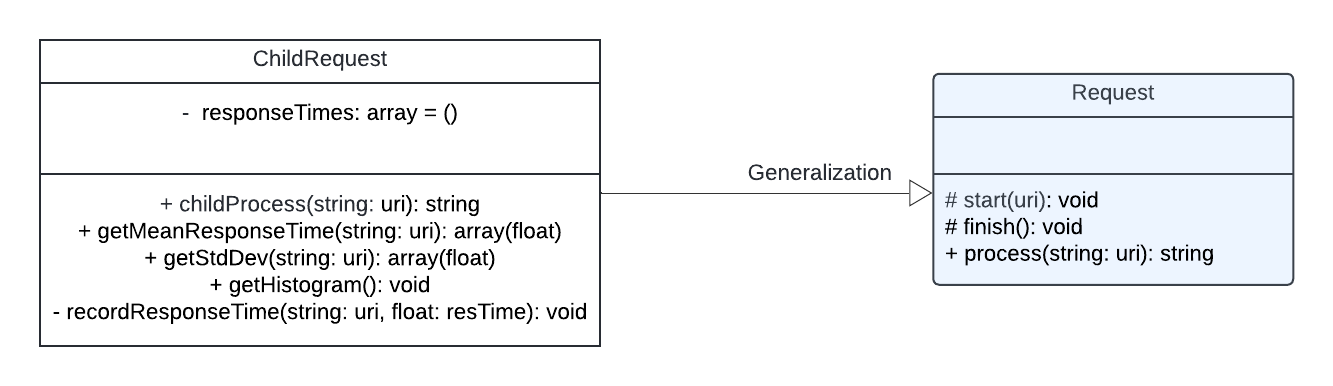
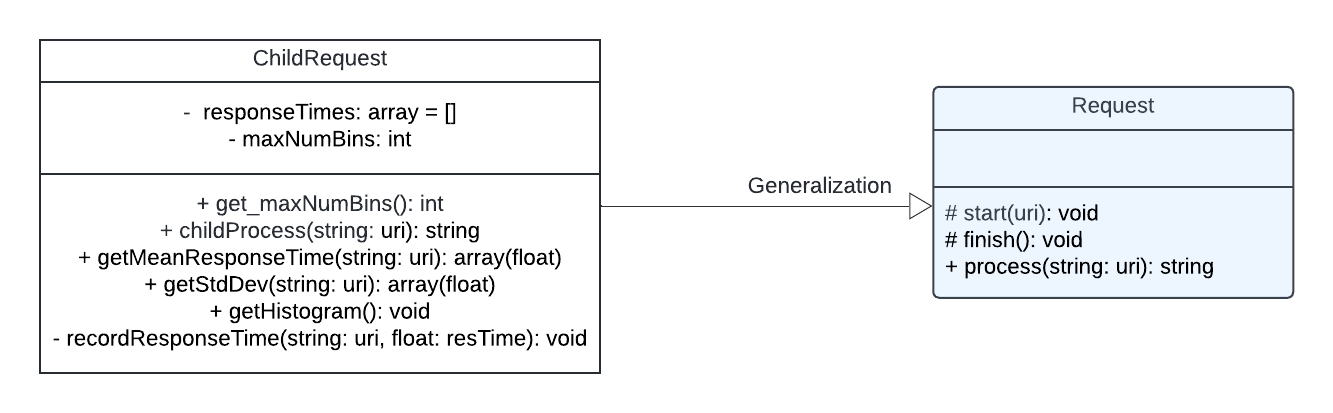
add constructor to the ChildRequest class for init the maximum number of bins when init the object. Update the uml diagram accordingly.

diff --git a/ChildRequest.php b/ChildRequest.php
@@ -7,6 +7,29 @@ class ChildRequest extends Request
 {
     // an array to record array of response times of each uri
     private $responseTimes = [];
+    private $maxNumBins;
+
+
+    /**
+     * the constructor for ChildRequest Class
+     * 
+     * @param int $maxNumBins the maximum number of bins for each histogram
+     */
+    function __construct(int $maxNumBins) 
+    {
+        $this->maxNumBins = $maxNumBins;   
+    }
+
+    /**
+     * the getter to get maximum number of bins 
+     * 
+     * @param
+     * @return int The maximum number of bins
+     */
+    public function get_maxNumBins(): int
+    {
+        return $this->maxNumBins;
+    }
 
 
     // for testing and debugging purpose
@@ -33,8 +56,6 @@ class ChildRequest extends Request
 
         return $response;
     }
-
-
     /**
      * retrive the mean time array, it contains mean response time for all url the object has processed so far
      * 
